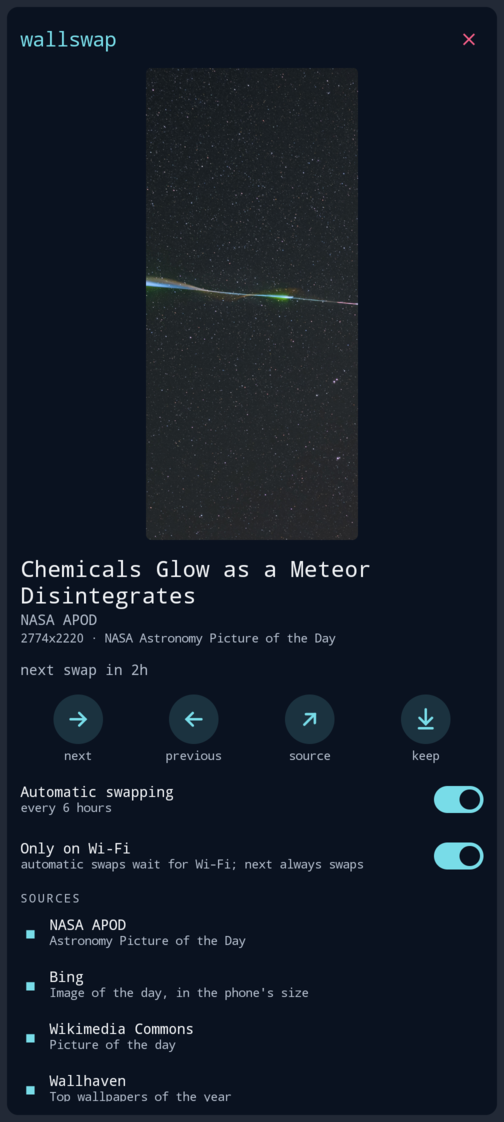
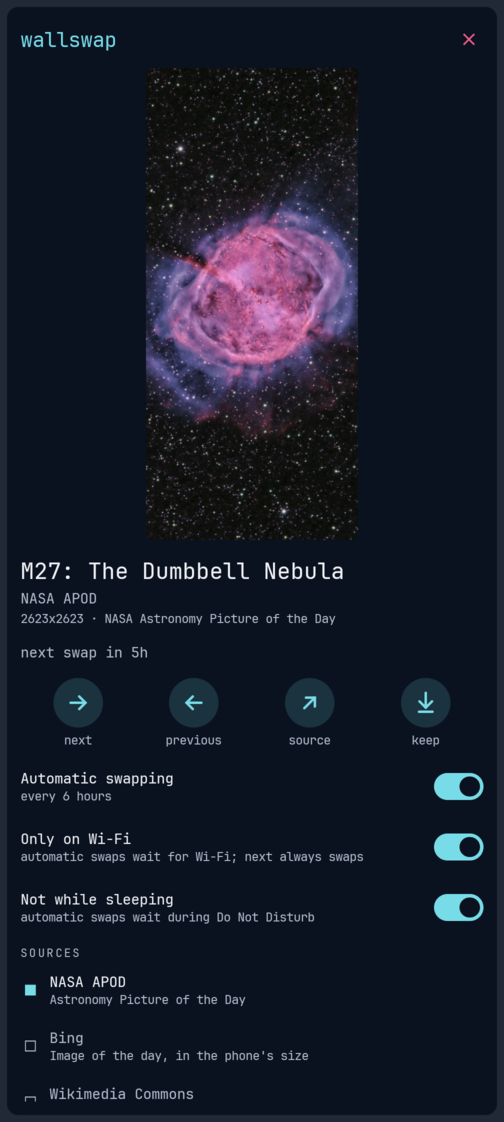
Release 1.4.0: not while sleeping
Automatic swaps wait while Do Not Disturb (and so Bedtime mode) is on,
with a switch on the screen, on by default; a swap that came due then
runs when it turns off. next always swaps.

diff --git a/CHANGELOG.md b/CHANGELOG.md
@@ -6,6 +6,12 @@ and this project adheres to [Semantic Versioning](http://semver.org/).
 
 ## [Unreleased]
 
+## [1.4.0] - 2026-10-26
+
+### Added
+
+- Not while sleeping, on by default: automatic swaps wait while Do Not Disturb (and so Bedtime mode) is on; a swap that came due then runs when it turns off. next always swaps.
+
 ## [1.3.0] - 2026-10-25
 
 ### Added
@@ -47,7 +53,8 @@ and this project adheres to [Semantic Versioning](http://semver.org/).
 - Swap the omalauncher wallpaper from NASA APOD, Bing, Wikimedia Commons, Wallhaven or a local folder, cropped to the phone's screen.
 - A tile with the current image and a next button; a screen with previous, source page, keep, pause, sources, interval and a Wallhaven search.
 
-[Unreleased]: https://github.com/petrzpav/omalauncher-wallswap/compare/v1.3.0...dev
+[Unreleased]: https://github.com/petrzpav/omalauncher-wallswap/compare/v1.4.0...dev
+[1.4.0]: https://github.com/petrzpav/omalauncher-wallswap/compare/v1.3.0...v1.4.0
 [1.3.0]: https://github.com/petrzpav/omalauncher-wallswap/compare/v1.2.0...v1.3.0
 [1.2.0]: https://github.com/petrzpav/omalauncher-wallswap/compare/v1.1.0...v1.2.0
 [1.1.0]: https://github.com/petrzpav/omalauncher-wallswap/compare/v1.0.1...v1.1.0

diff --git a/README.md b/README.md
@@ -38,6 +38,7 @@ The **tile** is clear, a window onto the wallpaper itself, with its title and wh
 - **next** / **previous** / **source** page / **keep**
 - **Automatic swapping**: pause or resume
 - **Only on Wi-Fi** (on by default): automatic swaps wait for Wi-Fi, checked again every 10 minutes; **next** always swaps
+- **Not while sleeping** (on by default): automatic swaps wait while Do Not Disturb or Bedtime mode is on, and catch up when it turns off
 - **Sources**: switch each on or off (at least one stays on), and how often to swap: 15 min … once a
   day … only when you ask
 - **Wallhaven search**, e.g. `space`, `mountains`, `city night`
